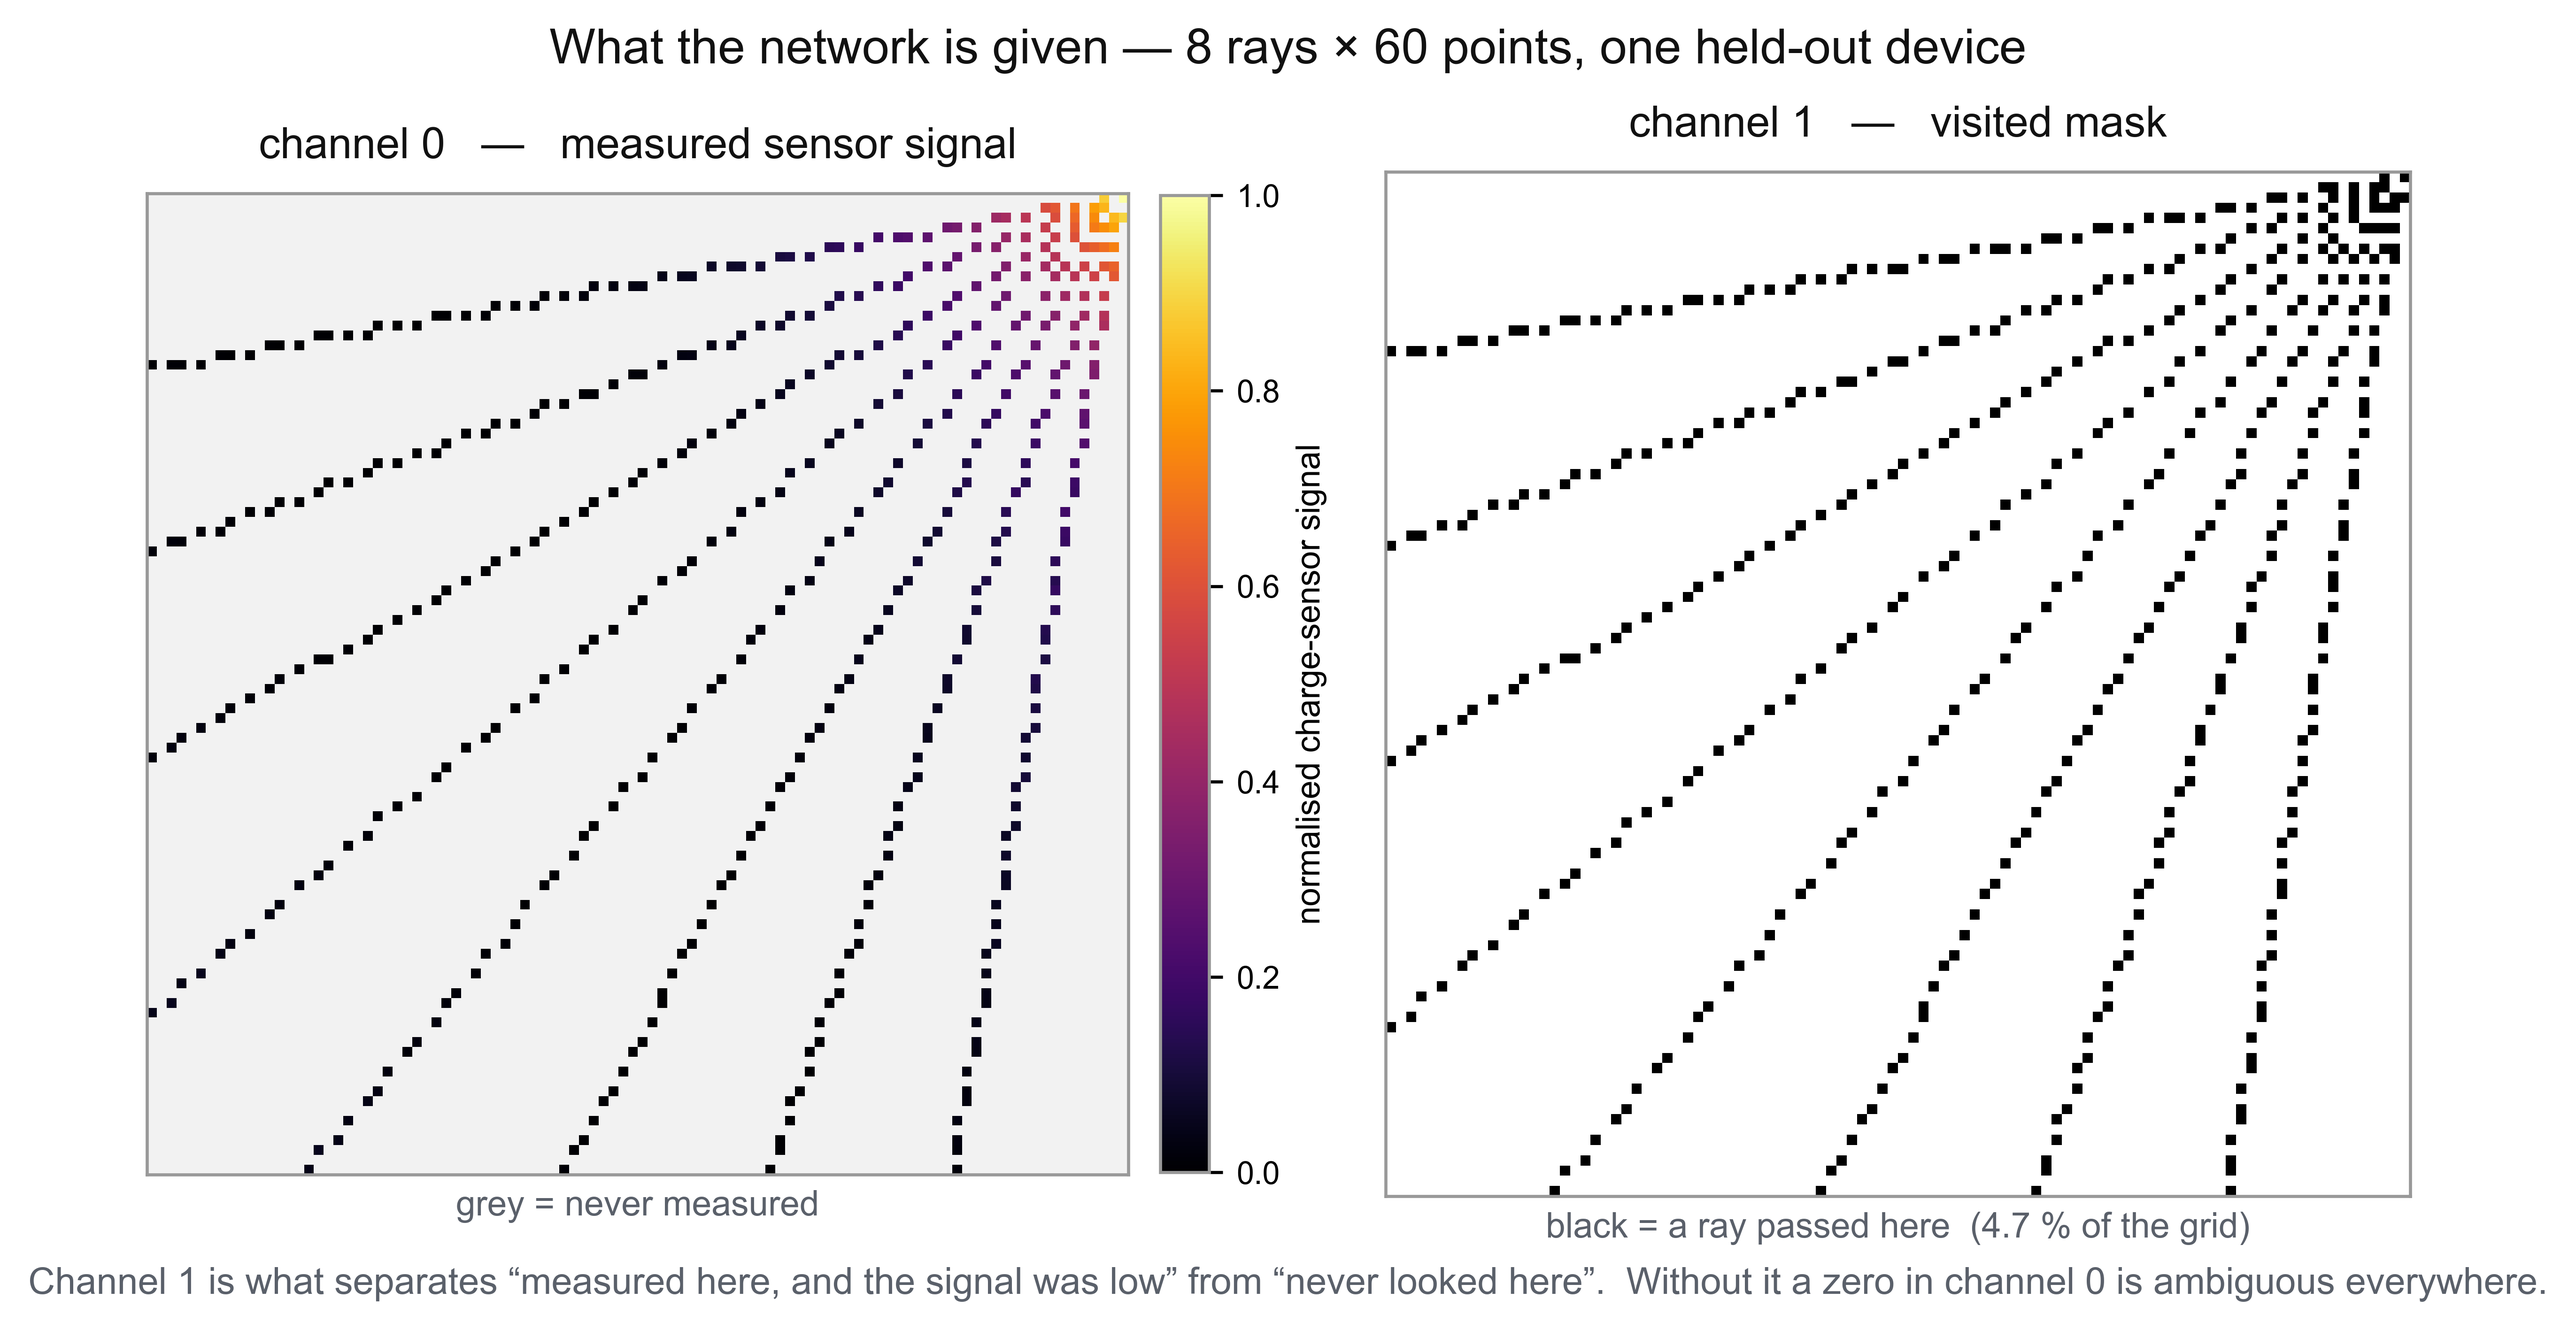
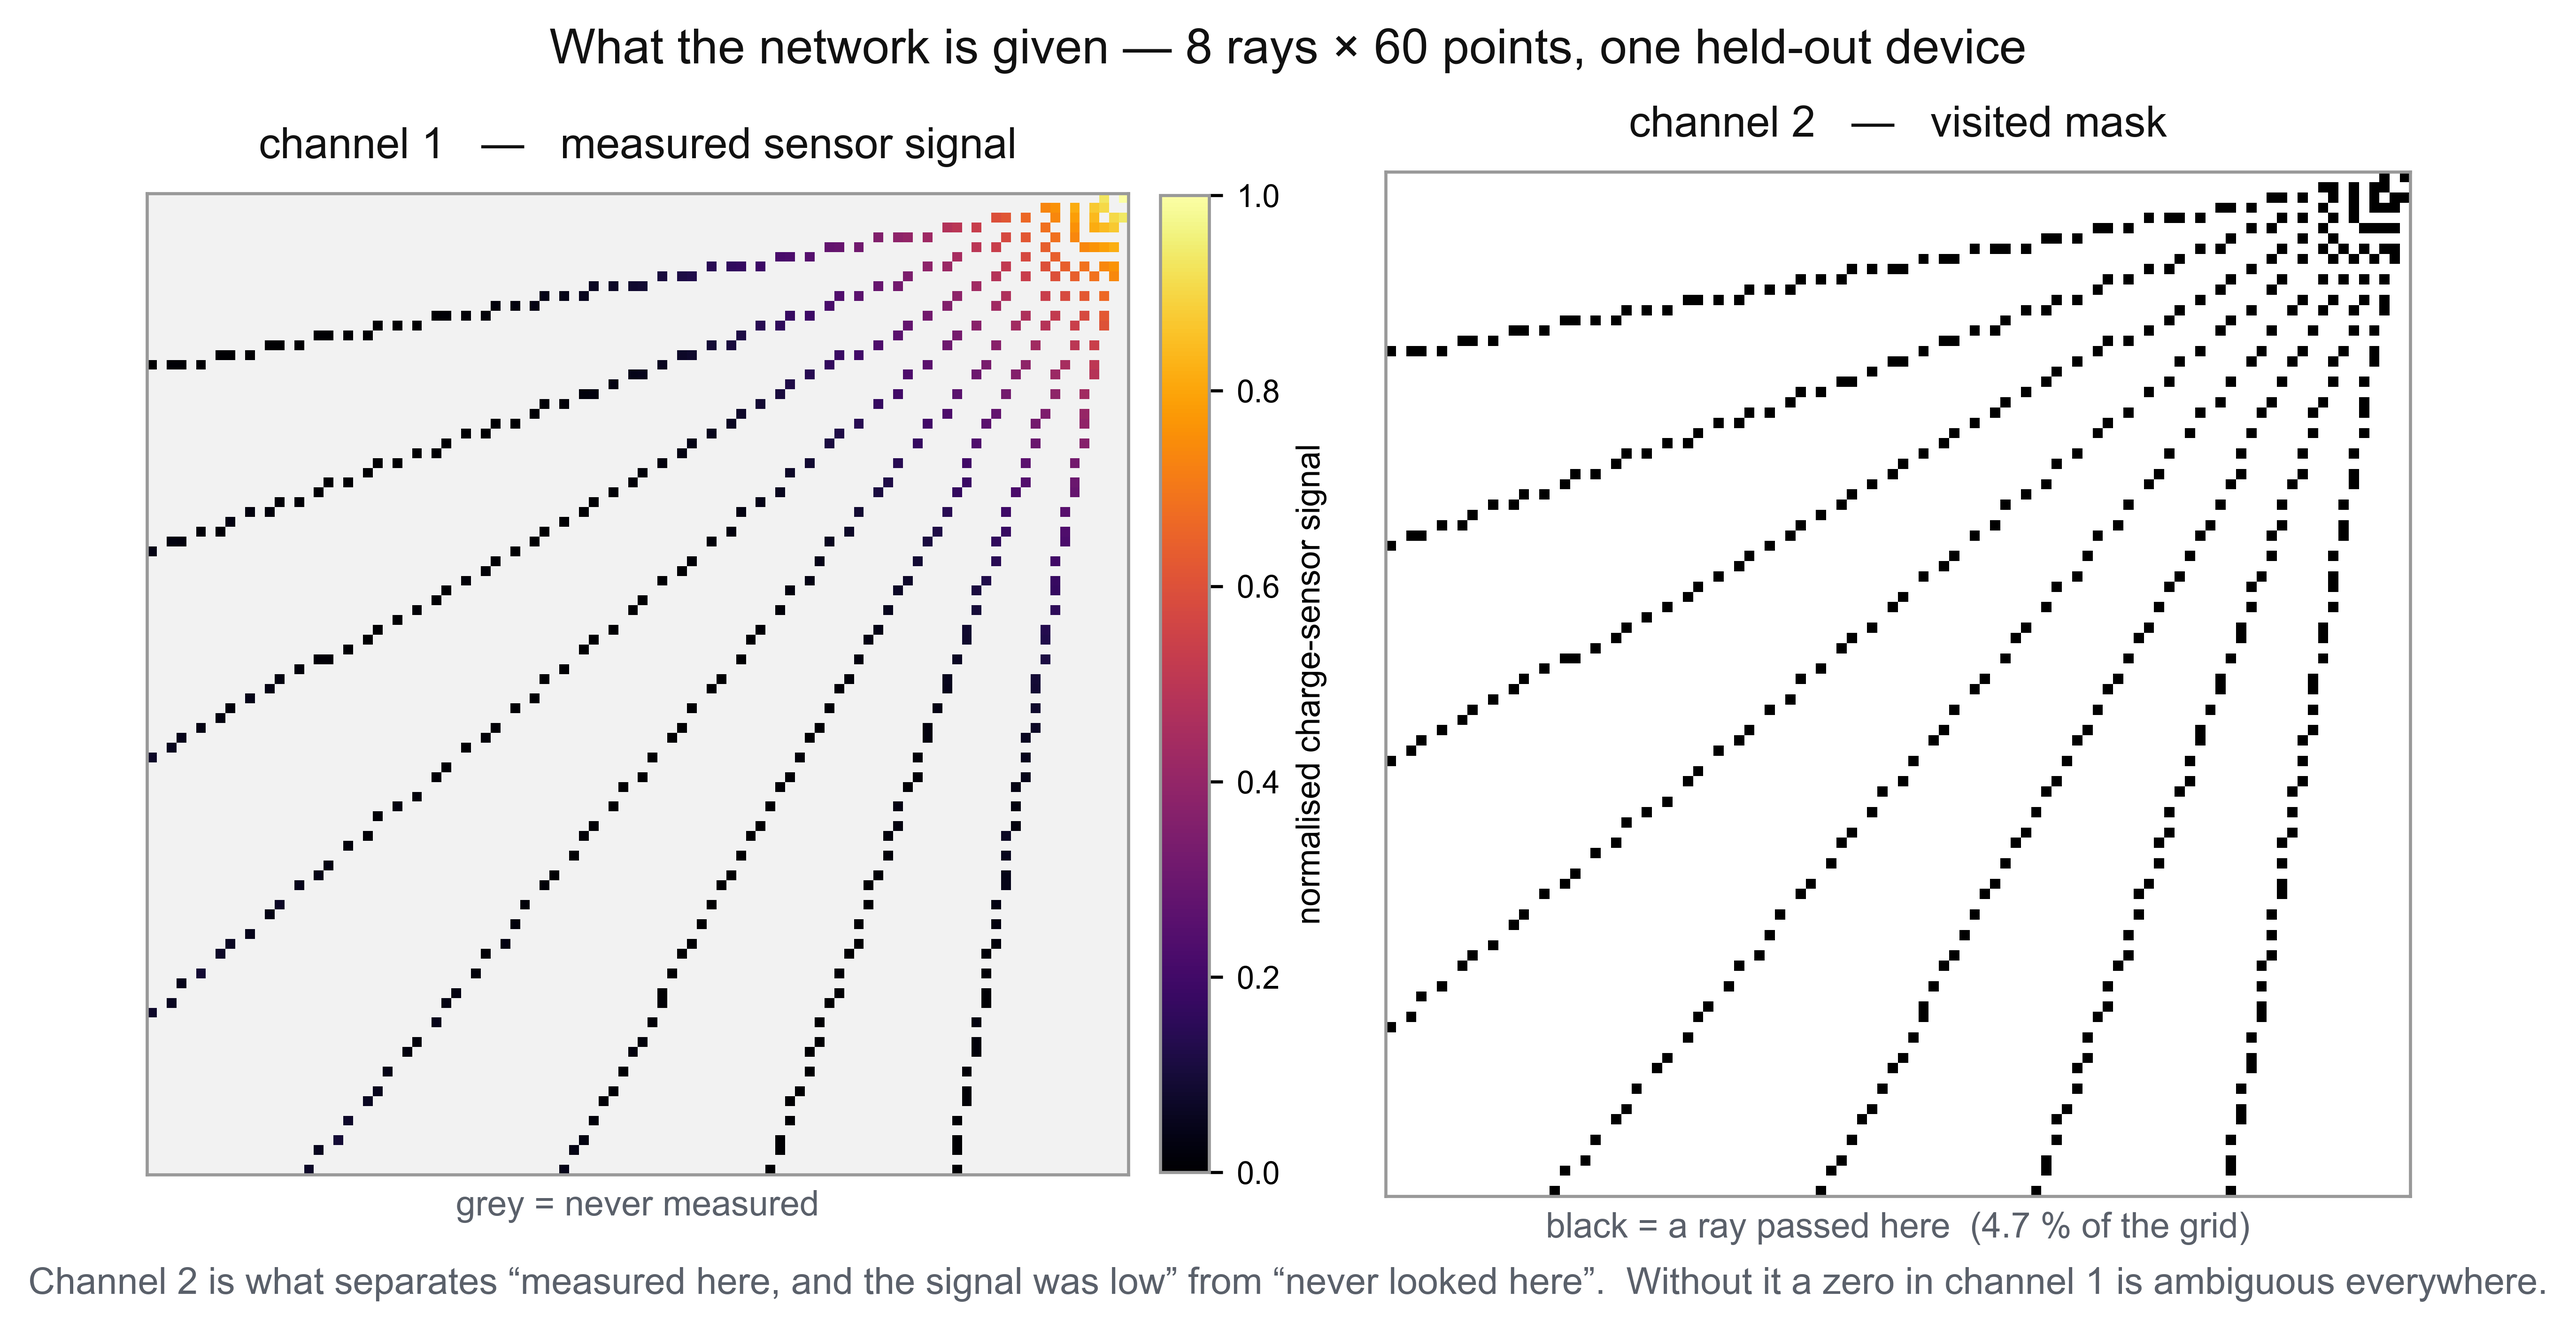
added again

diff --git a/paper_figures/make_figures.py b/paper_figures/make_figures.py
@@ -28,8 +28,10 @@ ROOT = os.path.abspath(os.path.join(HERE, ".."))
 POOL = os.path.join(ROOT, "training_data", "_device_pools",
                     "devices_n550_res100_c1df7b6bf")
 
-# test device 1 = first entry of test_ids (device_id 4) = pool sample_5
-DEVICE = os.path.join(POOL, "sample_5")
+# The device used for the INPUT / MASK explanation.  pool sample_1 is a
+# TRAINING device (device_id 0) — fine here, because this figure only shows
+# what a measurement looks like and makes no accuracy claim.
+DEVICE = os.path.join(POOL, "sample_1")
 N_RAYS, N_POINTS = 8, 60
 
 INK = "#111111"
@@ -61,24 +63,24 @@ def fig_network_input(compact=False):
 
     fig, axes = plt.subplots(1, 2, figsize=(8.4, 4.3))
 
-    # channel 0 — the measured value, shown only where a ray passed
+    # channel 1 — the measured value, shown only where a ray passed
     cm = plt.get_cmap("inferno").copy()
     cm.set_bad("#f2f2f2")
     ax = axes[0]
     im = ax.imshow(np.where(vis > 0.5, sig, np.nan), origin="lower", cmap=cm,
                    vmin=0, vmax=1, interpolation="nearest")
-    ax.set_title("channel 0   —   measured sensor signal", fontsize=11,
+    ax.set_title("channel 1   —   measured sensor signal", fontsize=11,
                  color=INK, pad=9)
     cb = fig.colorbar(im, ax=ax, fraction=0.046, pad=0.03)
     cb.set_label("normalised charge-sensor signal", fontsize=8.5)
     cb.ax.tick_params(labelsize=8)
     ax.set_xlabel("grey = never measured", fontsize=9, color=MUT)
 
-    # channel 1 — where we looked at all
+    # channel 2 — where we looked at all
     ax = axes[1]
     ax.imshow(1.0 - vis, origin="lower", cmap="gray", vmin=0, vmax=1,
               interpolation="nearest")
-    ax.set_title("channel 1   —   visited mask", fontsize=11, color=INK,
+    ax.set_title("channel 2   —   visited mask", fontsize=11, color=INK,
                  pad=9)
     ax.set_xlabel(f"black = a ray passed here  ({cov:.1f} % of the grid)",
                   fontsize=9, color=MUT)
@@ -95,9 +97,9 @@ def fig_network_input(compact=False):
                      f"{N_POINTS} points, one held-out device",
                      fontsize=12.5, color=INK, y=1.0)
         fig.text(0.5, -0.045,
-                 "Channel 1 is what separates “measured here, and the signal "
+                 "Channel 2 is what separates “measured here, and the signal "
                  "was low” from “never looked here”.  Without it a zero in "
-                 "channel 0 is ambiguous everywhere.",
+                 "channel 1 is ambiguous everywhere.",
                  ha="center", fontsize=9.5, color=MUT)
     fig.tight_layout()
     save(fig, "fig_network_input_slide" if compact else "fig_network_input")
@@ -173,7 +175,7 @@ def fig_unet():
     ax.text(4.66, lvl[0][1] + 0.02, "skip connections",
             ha="center", fontsize=8.5, color=MUT, style="italic")
 
-    ax.text(0.42, 0.16, "channel 0  ray signal\nchannel 1  visited mask",
+    ax.text(0.42, 0.16, "channel 1  ray signal\nchannel 2  visited mask",
             ha="center", va="top", fontsize=8.5, color=MUT)
     ax.text(8.68, 0.16, "P(transition line)\nper pixel",
             ha="center", va="top", fontsize=8.5, color=MUT)
@@ -196,12 +198,18 @@ RUN_DIR = os.path.join(ROOT, "results",
                        "4-5-6-7-8_rays_40-50-60_points_500_samples")
 LADDER = (0.2, 0.3, 0.4, 0.5, 0.6, 0.7, 0.8, 0.9)
 
+# Which held-out device the results figure uses.  Index into test.npz:
+#   0 -> figures/test/sample_1 (pool sample_5)
+#   1 -> figures/test/sample_2 (pool sample_10)   <- the one we show
+# Both are in test_ids, so the network never saw them during training.
+RESULT_DEVICE = 1
+
 
 def fig_probability_to_lines(device_index=None, ladder=LADDER):
     """
     One held-out device end to end:
 
-        row 1   channel 0 | channel 1 | probability map | ground truth
+        row 1   channel 1 | channel 2 | probability map | ground truth
         row 2   the same probability map cut at a ladder of thresholds,
                 the checkpoint's own threshold framed in red
 
@@ -224,8 +232,9 @@ def fig_probability_to_lines(device_index=None, ladder=LADDER):
     if device_index is None:
         device_index = int(np.argmin(np.abs(f1 - f1.mean())))
     i = device_index
-    print(f"  device {names[i]}  F1@1 {f1[i]:.3f}  "
-          f"(mean over {len(f1)} test devices {f1.mean():.3f})")
+    print(f"  figures/test/sample_{i + 1} = {os.path.basename(names[i])}  "
+          f"F1@1 {f1[i]:.3f}  "
+          f"(mean over {len(f1)} held-out devices {f1.mean():.3f})")
 
     sig, vis = X[i][0], X[i][1]
     p, truth = prob[i], Y[i] > 0.5
@@ -247,13 +256,13 @@ def fig_probability_to_lines(device_index=None, ladder=LADDER):
     ax = fig.add_subplot(gs[0, 0:span])
     ax.imshow(np.where(vis > 0.5, sig, np.nan), origin="lower", cmap=cm,
               vmin=0, vmax=1, interpolation="nearest")
-    ax.set_title("input · channel 0\nmeasured sensor signal", fontsize=10.5)
+    ax.set_title("input · channel 1\nmeasured sensor signal", fontsize=10.5)
     blank(ax)
 
     ax = fig.add_subplot(gs[0, span:2 * span])
     ax.imshow(1.0 - vis, origin="lower", cmap="gray", vmin=0, vmax=1,
               interpolation="nearest")
-    ax.set_title(f"input · channel 1\nvisited mask "
+    ax.set_title(f"input · channel 2\nvisited mask "
                  f"({100 * vis.mean():.1f} % of the grid)", fontsize=10.5)
     blank(ax)
 
@@ -313,4 +322,4 @@ if __name__ == "__main__":
     fig_network_input()
     fig_network_input(compact=True)
     fig_unet()
-    fig_probability_to_lines()
+    fig_probability_to_lines(RESULT_DEVICE)

diff --git a/CLAUDE.md b/CLAUDE.md
@@ -72,10 +72,11 @@ are the stages. `benchmark.py` is the geometry ablation.
 - **Measurement** — n rays × n points fired from one corner of the window.
   A ray crossing a transition line gives a local maximum in the sensor
   current. Rays are oblique, so one ray crosses both honeycomb families.
-- **Network input** — 2 channels only: ch0 = raw sensor value where a ray
-  passed, ch1 = visited mask (so "measured and low" is distinguishable from
+- **Network input** — 2 channels only: the raw sensor value where a ray
+  passed, and the visited mask (so "measured and low" is distinguishable from
   "never measured"). The peaks channel exists for figures; the network never
-  sees it.
+  sees it. In code these are `CH_SIGNAL = 0` and `CH_VISITED = 1`; in the
+  slides and the paper they are called **channel 1** and **channel 2**.
 - **Network** — fully convolutional U-Net, depth 3 (32→64→128, bottleneck
   256), sigmoid head → **one probability per pixel**.
 - **Loss** — BCEWithLogits with the positive class weighted by its rarity
